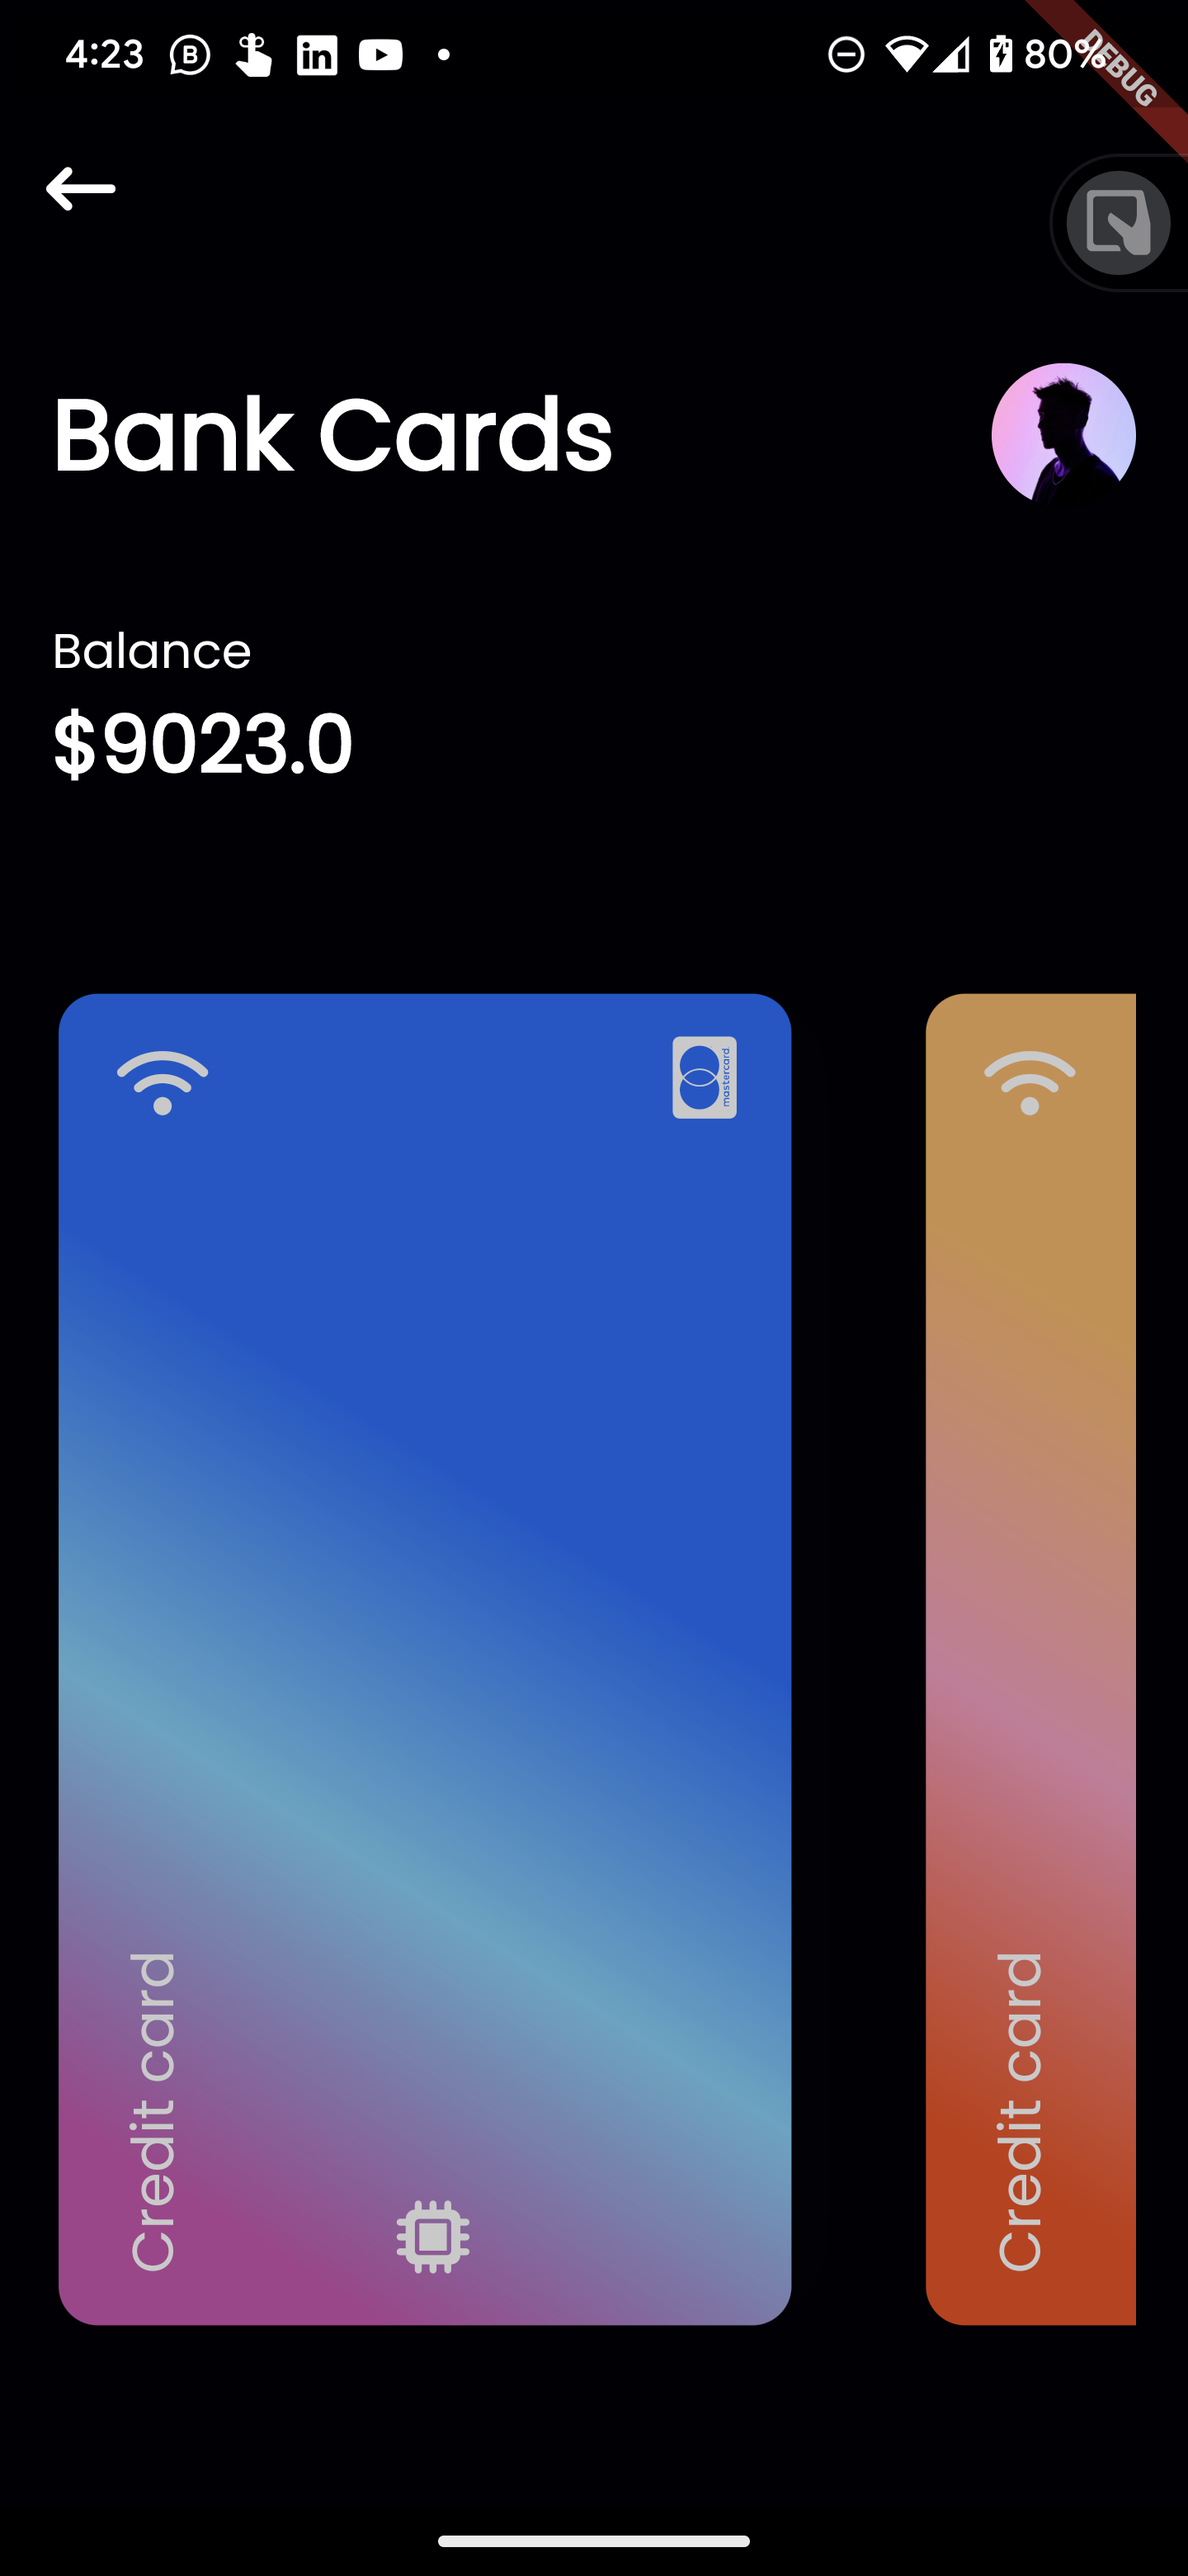
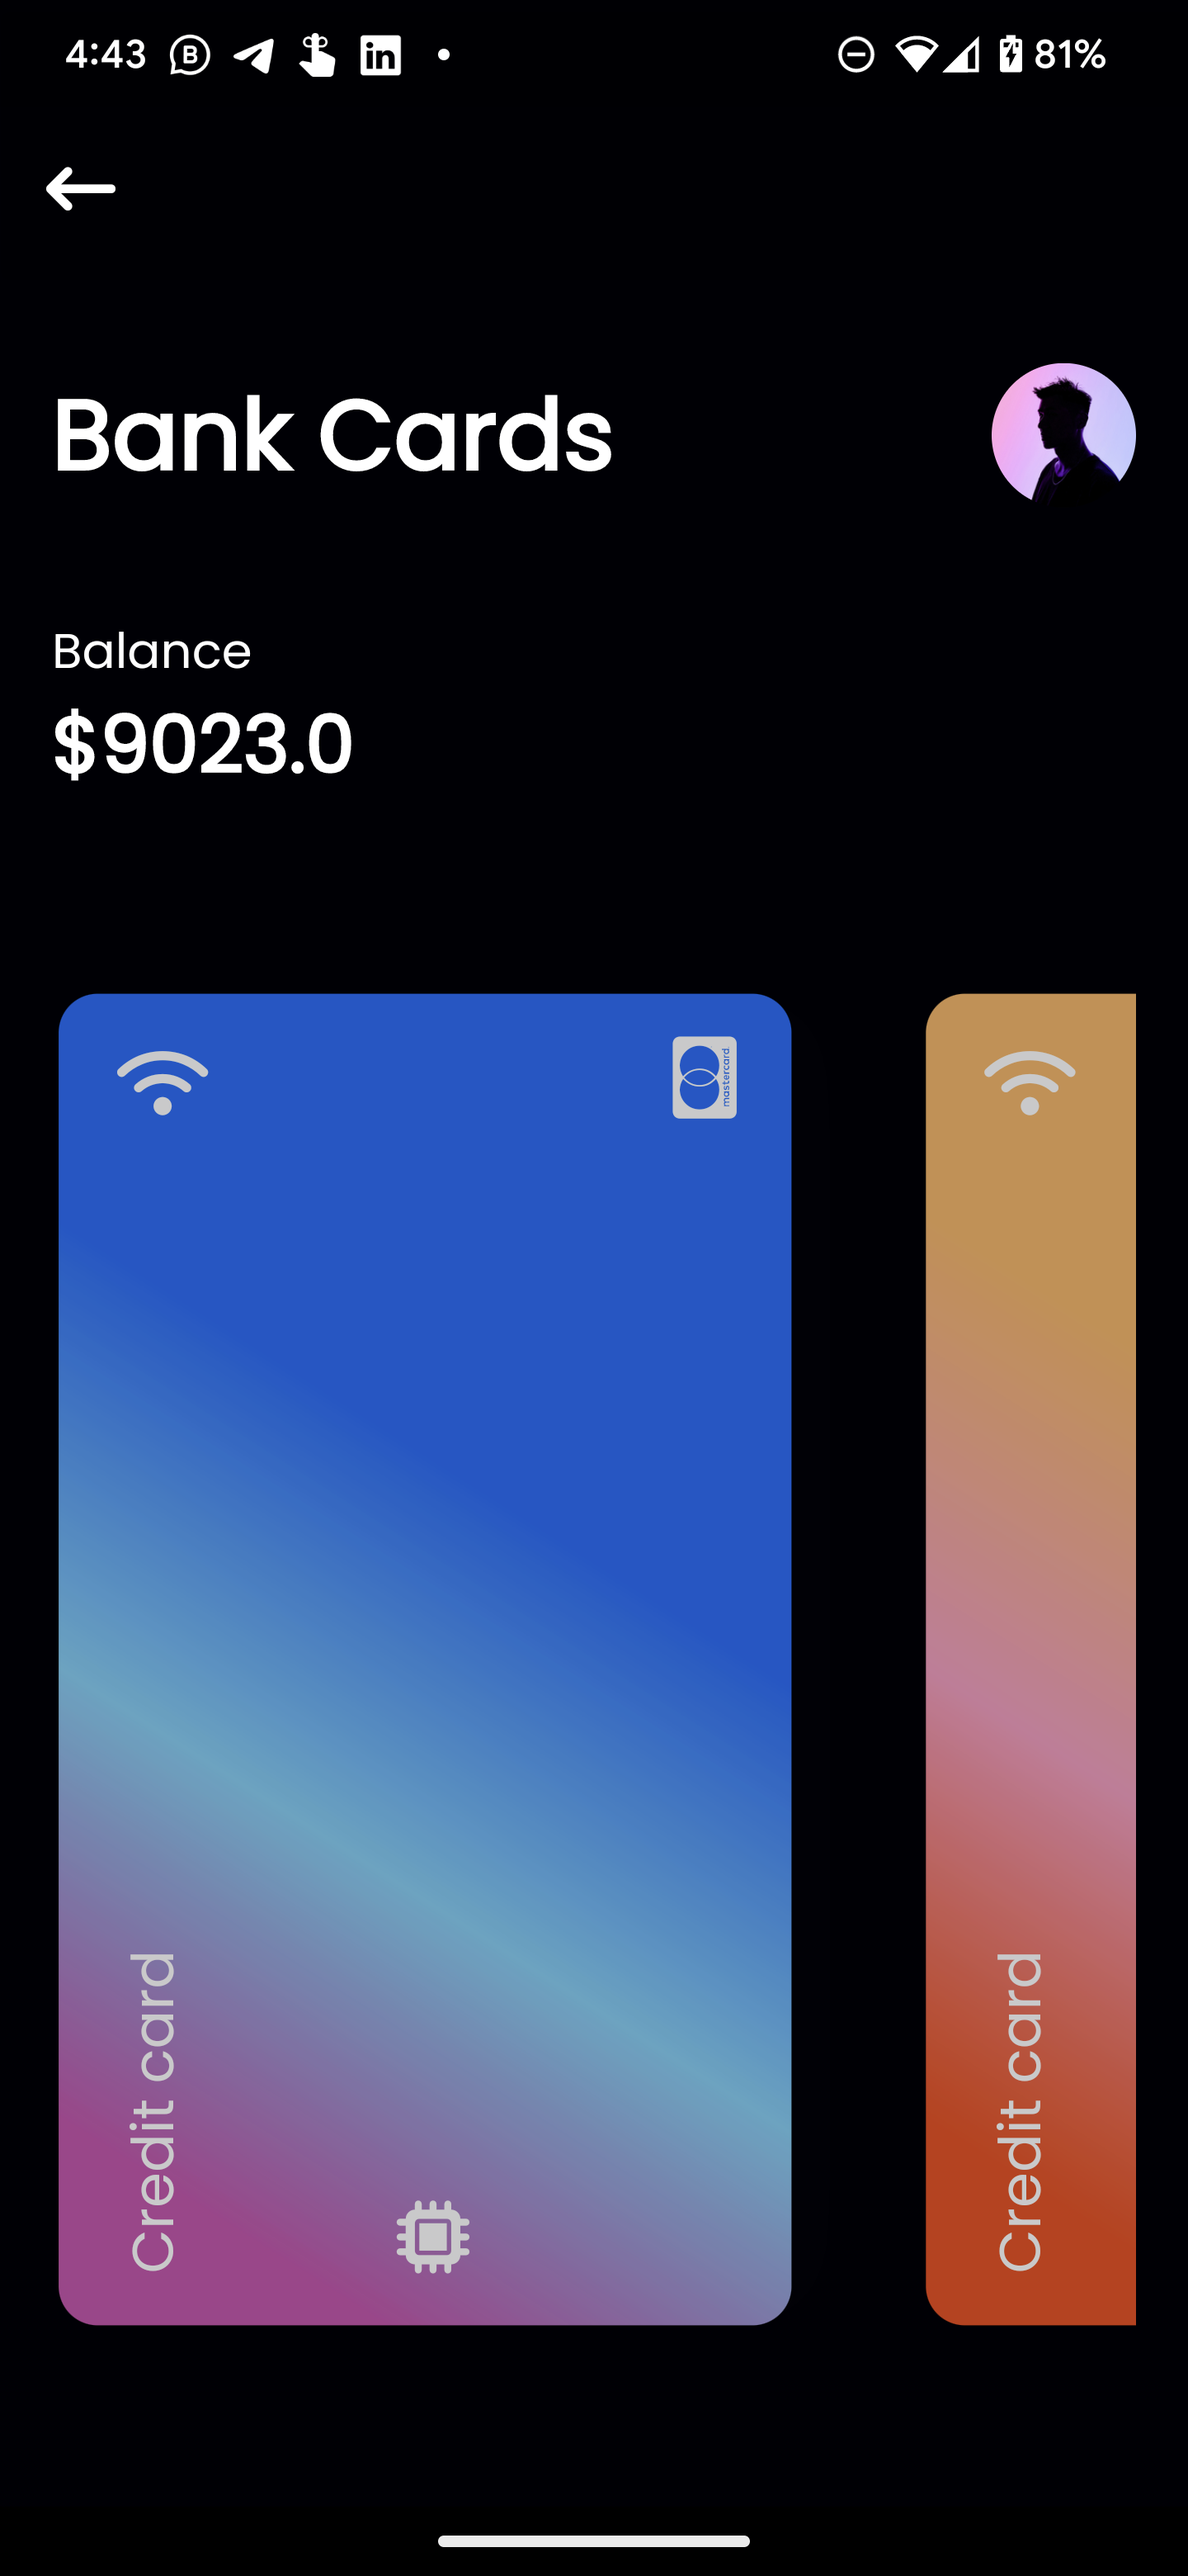
update README

diff --git a/lib/main.dart b/lib/main.dart
@@ -32,6 +32,7 @@ class MyApp extends StatelessWidget {
   @override
   Widget build(BuildContext context) => MaterialApp(
         title: 'Flutter Demo',
+        debugShowCheckedModeBanner: false,
         theme: ThemeData(
           textTheme: GoogleFonts.poppinsTextTheme(),
           primarySwatch: Colors.blue,

diff --git a/lib/widgets/cards_list.dart b/lib/widgets/cards_list.dart
@@ -54,6 +54,7 @@ class _CardsListState extends State<CardsList>
   handleTap() {
     if (animationController.isCompleted) {
       animationController.reverse();
+      setState(() {});
     } else {
       animationController.forward();
     }

diff --git a/README.md b/README.md
@@ -4,6 +4,6 @@ An experimental app for displaying bank cards in a fancy and enjoyable way with 
 
 ## Screenshots
 
-![Screenshot 1](flutter_01.png)![Screenshot 1](flutter_02.png)![Screenshot 1](flutter_03.png)
+<img alt="Screenshot 1" src="flutter_01.png" width="400"/> <img alt="Screenshot 2" src="flutter_02.png" width="400"/> <img alt="Screenshot 3" src="flutter_03.png" width="400"/>
 
 [Inspiration](https://dribbble.com/shots/9323126-Bank-cards-3-0)
